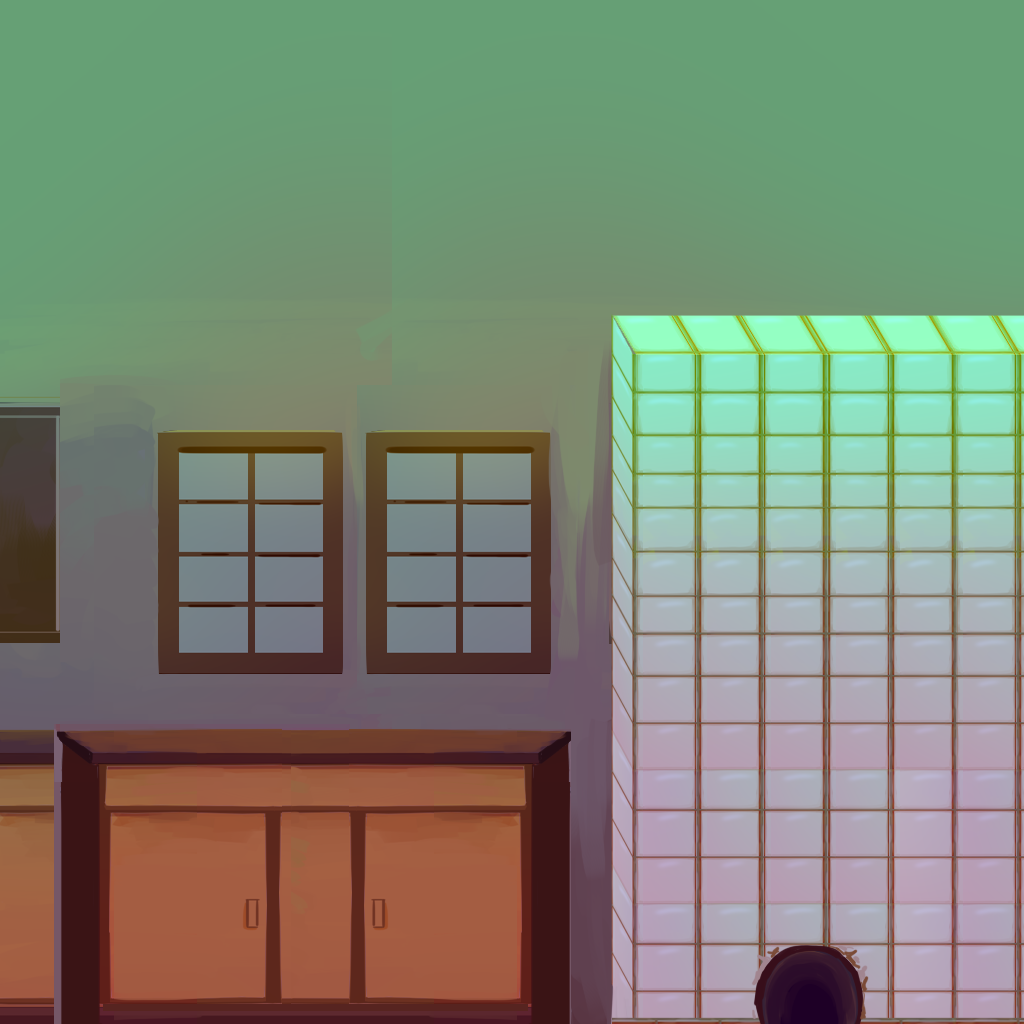
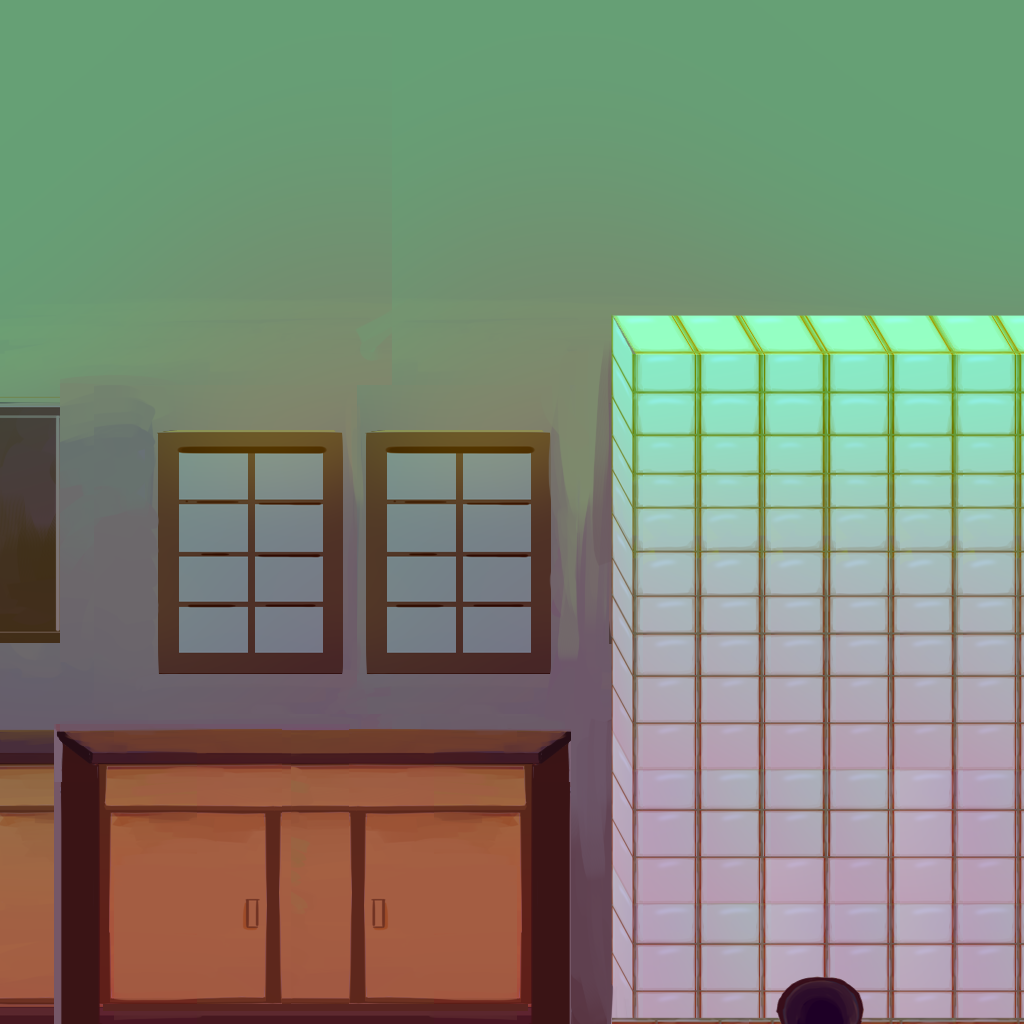
fixed lighting and mouse hole

Changed region(s): [[0.7188, 0.8438, 0.8438, 1.0]]

diff --git a/src/_scene.cpp b/src/_scene.cpp
@@ -31,7 +31,7 @@ _Scene::_Scene() { // ctor
     abilities = new _abilities();
     renderer = new _renderer();
 
-    mouseHoleRadius = 4.0f;
+    mouseHoleRadius = 6.0f;
 }
 
 _Scene::~_Scene() { /*dtor*/ }
@@ -48,6 +48,7 @@ GLint _Scene::initGL() {
     glEnable(GL_TEXTURE_2D); // Enable texture mapping
     glEnable(GL_BLEND); // Enable blending
     glBlendFunc(GL_SRC_ALPHA, GL_ONE_MINUS_SRC_ALPHA);
+    glEnable(GL_NORMALIZE); // Ensures all normals are unit length
     myLight->setLight(GL_LIGHT0); // Configure light properties
 
     // ---------------- SKYBOX SETUP ----------------
@@ -158,7 +159,13 @@ void _Scene::drawScene() {
     cam->eye.z = cam->des.z + safeDist * cos(radPitch) * cos(radYaw);
 
     cam->setUpCamera();  // Set camera position and orientation
-    sky->drawBox(); // Draw sky box
+
+    glPushAttrib(GL_ENABLE_BIT);
+    glDisable(GL_LIGHTING);
+
+    sky->drawBox();
+
+    glPopAttrib();
 
     float floorY = (sky->pos.y - sky->scale.y * 0.5f) + 1;
 
@@ -196,13 +203,34 @@ void _Scene::drawScene() {
 
     // -------- MOUSE HOLE --------
     frame.mouseHolePos = mouseHolePos;
+    frame.mouseHoleRadius = mouseHoleRadius;
 
+    // ---------- WORLD RENDER STATE ----------
+    glEnable(GL_LIGHTING);
+    glEnable(GL_TEXTURE_2D);
+    glEnable(GL_DEPTH_TEST);
     // -------- RENDER --------
     renderer->renderFrame(frame);
 
+    // ---------- UI RENDER SETUP ----------
+    glMatrixMode(GL_PROJECTION);
+    glPushMatrix();
+    glLoadIdentity();
+    gluOrtho2D(0, 1920, 0, 1080);
 
+    glMatrixMode(GL_MODELVIEW);
+    glPushMatrix();
+    glLoadIdentity();
+
+    glPushAttrib(GL_ENABLE_BIT);
+
+    // Disable 3D stuff
+    glDisable(GL_LIGHTING);
+    glDisable(GL_DEPTH_TEST);
+
+    // ---------- DRAW UI ----------
     ui->draw(
-        1920, 1080, // window size
+        1920, 1080,
         score,
         abilities->dashCooldownTimer,
         abilities->dashCooldown,
@@ -212,7 +240,14 @@ void _Scene::drawScene() {
         abilities->canFart
     );
 
-    glEnable(GL_TEXTURE_2D);
+    // ---------- RESTORE STATE ----------
+    glPopAttrib();
+
+    glMatrixMode(GL_PROJECTION);
+    glPopMatrix();
+
+    glMatrixMode(GL_MODELVIEW);
+    glPopMatrix();
 }
 
 void _Scene::updatePlayer(float dt) {

diff --git a/src/_renderer.cpp b/src/_renderer.cpp
@@ -11,7 +11,7 @@ void _renderer::renderFrame(FrameRenderData& frame)
     for (auto& f : *frame.foods) { drawFood(f); }
     for (auto& f : *frame.farts) { drawFart(f); }
 
-    drawMouseHole(frame.mouseHolePos);
+    drawMouseHole(frame.mouseHolePos, frame.mouseHoleRadius);
 }
 
 
@@ -48,33 +48,44 @@ void _renderer::drawFood(const FoodRenderData& f)
     glPopMatrix();
 }
 
-void _renderer::drawFart(const FartRenderData& f)
-{
+void _renderer::drawFart(const FartRenderData& f) {
     glPushMatrix();
 
+    glPushAttrib(GL_ENABLE_BIT | GL_CURRENT_BIT);
+
     glDisable(GL_TEXTURE_2D);
+    glDisable(GL_LIGHTING);
 
     glTranslatef(f.pos.x, f.pos.y, f.pos.z);
     glColor3f(0.3f, 1.0f, 0.3f);
     glutSolidSphere(0.5, 10, 10);
 
-    glEnable(GL_TEXTURE_2D);
-
+    glPopAttrib();
     glPopMatrix();
 }
 
-void _renderer::drawMouseHole(const glm::vec3& pos)
-{
+void _renderer::drawMouseHole(const glm::vec3& pos,float radius) {
     glPushMatrix();
 
+    glPushAttrib(GL_ENABLE_BIT | GL_CURRENT_BIT);
+
     glDisable(GL_TEXTURE_2D);
+    glDisable(GL_LIGHTING);
 
     glTranslatef(pos.x, pos.y, pos.z);
-    glColor3f(1.0f, 0.0f, 0.0f);
-    glutSolidCube(1.0f);
+    glColor3f(0.05f, 0.05f, 0.05f); // dark hole
 
-    glEnable(GL_TEXTURE_2D);
+    GLUquadric* quad = gluNewQuadric();
 
+    glRotatef(90, 0, 0, 1); // Rotate so cylinder faces forward (out of wall)
+
+    glScalef(radius, radius, radius * 0.2f);
+
+    // Draw cylinder (radius, radius, height, slices, stacks)
+    gluCylinder(quad, 1.0f, 1.0f, 1.0f, 32, 32);
+
+    gluDeleteQuadric(quad);
+
+    glPopAttrib();
     glPopMatrix();
 }
-

diff --git a/include/_lighting.h b/include/_lighting.h
@@ -9,14 +9,14 @@ class _lighting
         _lighting();
         virtual ~_lighting();
 
-        const GLfloat ambientLight[4]= {0.0,0.0,0.0,1.0}; //environment light
-        const GLfloat diffuseLight[4]= {1.0,1.0,1.0,1.0}; //shadow light
-        const GLfloat specularLight[4]= {1.0,1.0,1.0,1.0}; //shiny light
-        const GLfloat lightPosition[4]= {2.0,5.0,5.0,1.0}; //position light
+        const GLfloat ambientLight[4]= {0.3,0.3,0.3,1.0}; // environment light
+        const GLfloat diffuseLight[4]= {0.8,0.8,0.8,1.0}; // shadow light
+        const GLfloat specularLight[4]= {1.0,1.0,1.0,1.0}; // shiny light
+        const GLfloat lightPosition[4]= {0.0,20.0,0.0,1.0}; // position light
 
-        const GLfloat ambientMat[4]= {0.7,0.7,0.7,1.0}; //environment materiral
-        const GLfloat diffuseMat[4]= {0.8,0.8,0.8,1.0}; //diffuse materiral
-        const GLfloat specularMat[4]= {1.0,1.0,1.0,1.0}; //specular materiralt
+        const GLfloat ambientMat[4]= {1.0,1.0,1.0,1.0}; // environment material
+        const GLfloat diffuseMat[4]= {1.0,1.0,1.0,1.0}; // diffuse material
+        const GLfloat specularMat[4]= {1.0,1.0,1.0,1.0}; // specular material
         const GLfloat shininess[1]= {100.0}; //environment light
 
        void setLight(GLenum);

diff --git a/include/_renderer.h b/include/_renderer.h
@@ -35,6 +35,7 @@ struct FrameRenderData {
     std::vector<FartRenderData>* farts;
 
     glm::vec3 mouseHolePos;
+    float mouseHoleRadius;
 };
 
 
@@ -49,7 +50,7 @@ private:
     void drawPlayer(const PlayerRenderData& player);
     void drawFood(const FoodRenderData& food);
     void drawFart(const FartRenderData& fart);
-    void drawMouseHole(const glm::vec3& pos);
+    void drawMouseHole(const glm::vec3& pos, float radius);
 };
 
 #endif

diff --git a/src/_lighting.cpp b/src/_lighting.cpp
@@ -5,6 +5,7 @@ _lighting::_lighting() { /*ctor*/ }
 _lighting::~_lighting() { /*dtor*/ }
 
 void _lighting::setLight(GLenum light) {
+    glEnable(light); // ensure light is active
     glLightfv(light, GL_AMBIENT, ambientLight);
     glLightfv(light, GL_DIFFUSE, diffuseLight);
     glLightfv(light, GL_SPECULAR,specularLight);
